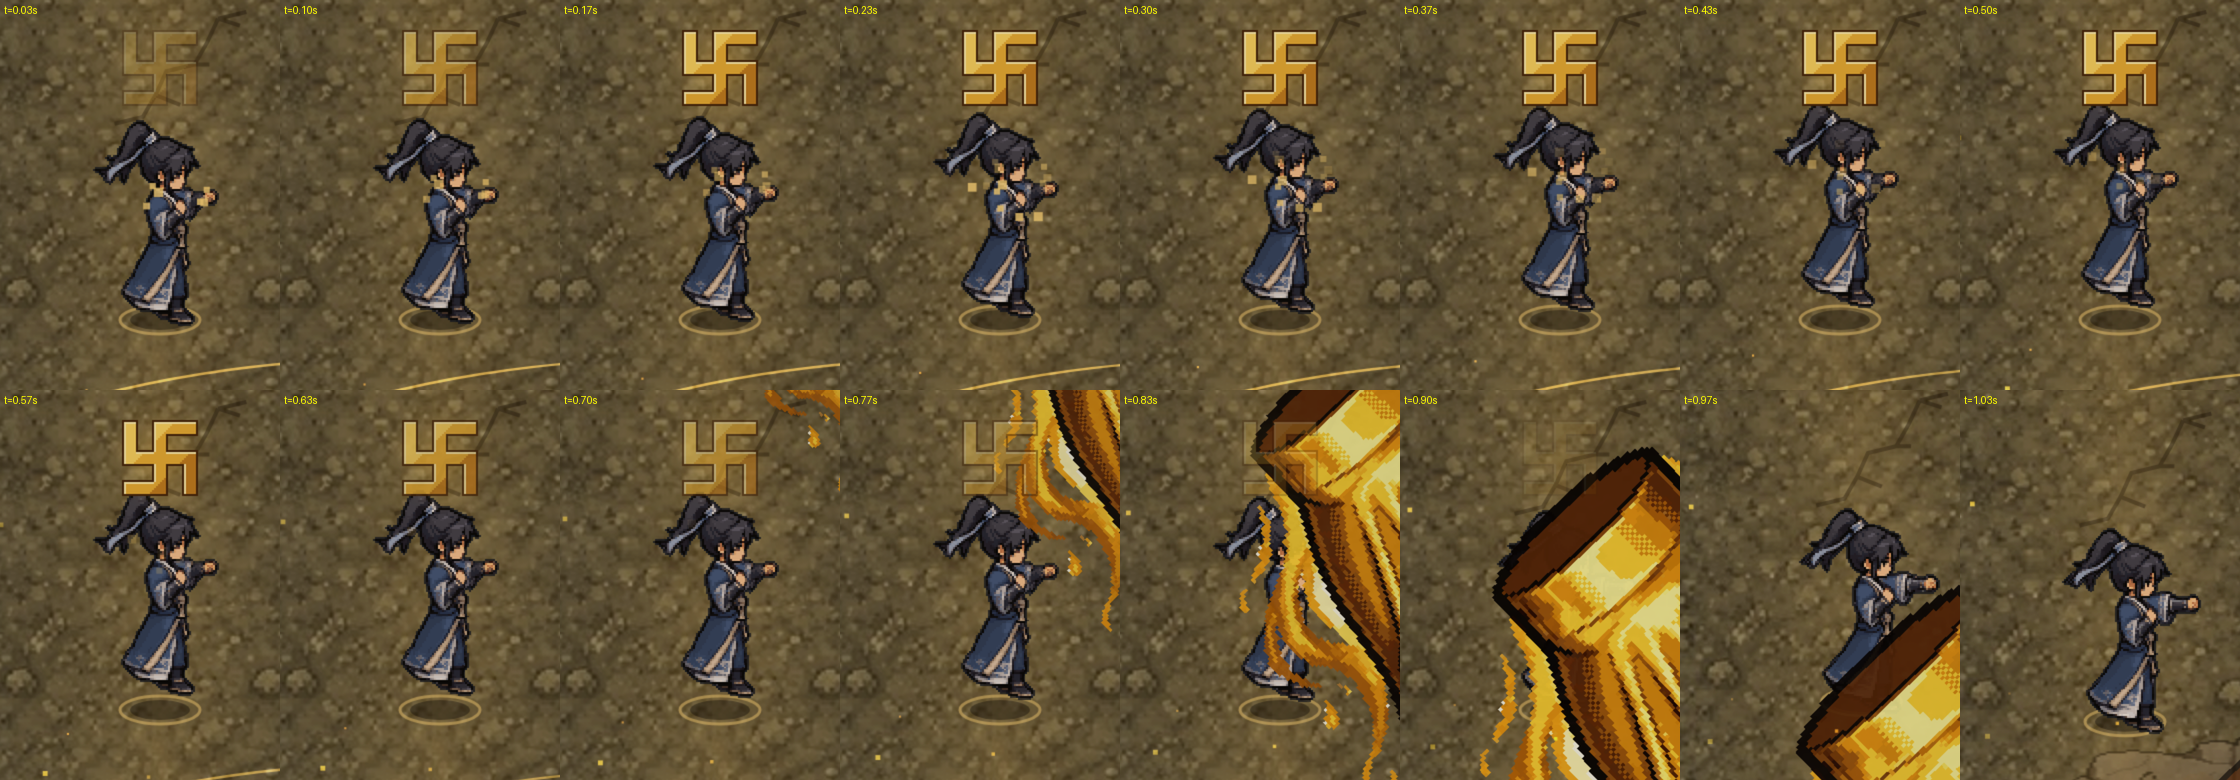
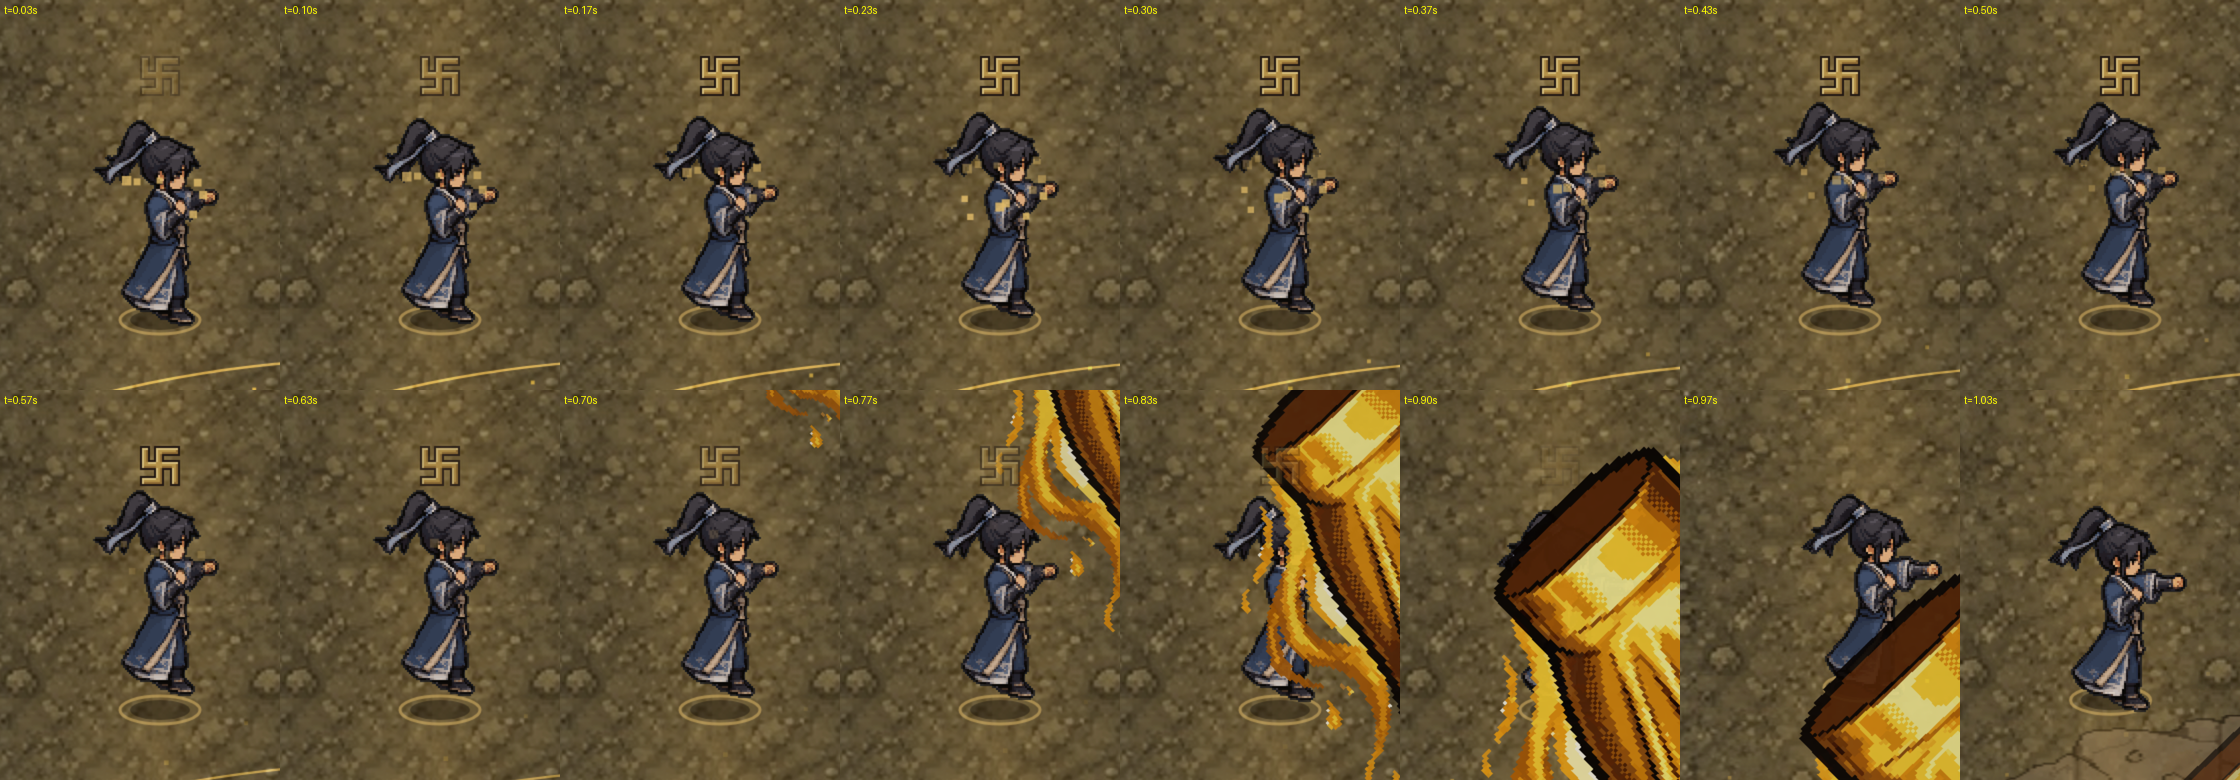
Quyền X: chữ VẠN nhỏ, nét mảnh, đồng bộ phong cách game
Claude-Session: https://claude.ai/code/session_01QQj46rsF4z2ee4KuP8oJja

diff --git a/game/index.html b/game/index.html
@@ -2352,7 +2352,7 @@ const WEAPONS={
    cast(tg,l){const dmg=this.power*lv(l)*pw(),dur=3+0.5*(l-1);notice('Thiên Cương Liên Hoàn');P.inv=Math.max(P.inv,0.4);sfx('rulai_fall',0.45,0.1);let k=0;if(vok('qy_an'))fx({k:'img',n:'qy_an',x:P.x,y:P.y+6,s0:0.3,s1:0.62,sy:0.5,spin:2.4,T:dur+0.3,al:0.85,gr:1});
     for(let t=0.2;t<=dur;t+=0.2){const kk=k++;later(t,()=>{const e=nearest(P.x,P.y,300),a2=angTo(e||tg);P.avAnim=kk%2?'attack2':'attack';swing(a2,kk%2?-1:1);P.runSwing=true;if(Math.abs(Math.cos(a2))>0.15)P.facing=Math.cos(a2)>=0?1:-1;arc(P.x,P.y-8,a2,150*Ar(),1.7,dmg*0.3,H({kb:70,stop:0.02,nofx:1}),'#fff0e8',kk%2?-1:1);if(vok('qy_hit'))fx({k:'sp',s:'qy_hit',x:P.x+Math.cos(a2)*(48+rnd(-8,14)),y:P.y-30+Math.sin(a2)*24+rnd(-10,10),sc:(0.9+Math.random()*0.4)*1.45,T:0.2,al:0.95});if(kk%3===0){fx({k:'ring',x:P.x+Math.cos(a2)*50,y:P.y-10+Math.sin(a2)*50,r0:10,r1:60,c:'#ffd0c8',T:0.2});G.shake=Math.max(G.shake||0,3)}},'h')}
     /* 25/11 (chủ game: "thấy có vfx bàn tay"): đòn kết = CHƯỞNG ẤN cương khí khổng lồ (bàn tay Phật gói Wuxia nhuộm đỏ chu sa - trắng, `qy_palm`) ép xuống chỗ đông quái nhất; sát thương 2,4 lần một cú đấm, đẩy lùi, choáng 0,6 s */
-    later(dur+0.25,()=>{const c=densest(P.x,P.y,340)||{x:P.x+Math.cos(angTo(tg))*180,y:P.y+Math.sin(angTo(tg))*180};const a3=Math.atan2(c.y-P.y,c.x-P.x);P.avAnim='attack';swing(a3,1);P.av=P.avTotal=1.45;P.runSwing=false;P._xp={t0:G.t};if(Math.abs(Math.cos(a3))>0.15)P.facing=Math.cos(a3)>=0?1:-1;sfx('rulai_fall',0.6,0.1);/* 25/11 (chủ game): thay vòng vàng bằng chữ VẠN (卍) hiện trên đầu lúc giơ tay, sau đó đập tay thì Như Lai Thần Chưởng hiện */if(vok('van_vang'))fx({k:'img',n:'van_vang',x:P.x,y:P.y-126,s0:0.5,s1:0.5,sy:1,T:0.95,al:1});for(const d of[0,0.22])later(d,()=>{for(let i=0;i<6;i++)part(P.x+rnd(-26,26),P.y-60+rnd(-10,10),rnd(-10,10),rnd(-70,-30),rnd(0.35,0.6),rnd(3,5),'rgba(255,214,120,.9)',0)},'h');
+    later(dur+0.25,()=>{const c=densest(P.x,P.y,340)||{x:P.x+Math.cos(angTo(tg))*180,y:P.y+Math.sin(angTo(tg))*180};const a3=Math.atan2(c.y-P.y,c.x-P.x);P.avAnim='attack';swing(a3,1);P.av=P.avTotal=1.45;P.runSwing=false;P._xp={t0:G.t};if(Math.abs(Math.cos(a3))>0.15)P.facing=Math.cos(a3)>=0?1:-1;sfx('rulai_fall',0.6,0.1);/* 25/11 (chủ game): thay vòng vàng bằng chữ VẠN (卍) hiện trên đầu lúc giơ tay, sau đó đập tay thì Như Lai Thần Chưởng hiện */if(vok('van_vang'))fx({k:'img',n:'van_vang',x:P.x,y:P.y-122,s0:1,s1:1,sy:1,T:0.95,al:1});for(const d of[0,0.22])later(d,()=>{for(let i=0;i<6;i++)part(P.x+rnd(-26,26),P.y-60+rnd(-10,10),rnd(-10,10),rnd(-70,-30),rnd(0.35,0.6),rnd(3,5),'rgba(255,214,120,.9)',0)},'h');
      /* 25/11 (chủ game: chưởng ấn từ trên trời rót xuống, rồi bàn tay lún sâu dưới đất): zone qypalm = bàn tay đỏ từ từ hạ 1,1 s (to dần, bóng và vòng báo trên đất), ép xuống, lún sâu bị mặt đất cắt, hố nứt + vết nứt đỏ lan ra */
      addZone({kind:'qypalm',T:1.9,src:'h',x:c.x,y:c.y,rot:a3});
      later(0.95,()=>{sfx('rulai_impact',0.85,0.1);if(G.decals.length<40)G.decals.push({img:'rulai_crater',x:c.x,y:c.y-5,w:422,h:236,t:0,T:2.9,pop:1});burst(c.x,c.y-6,'#d8c8a0',30);circ(c.x,c.y,200*Ar(),dmg*2.4,H({kb:300,stun:0.6,stop:0.05}),null);fx({k:'ring',x:c.x,y:c.y+14,r0:20,r1:200,c:'#ffc84a',T:0.45});fx({k:'ring',x:c.x,y:c.y+14,r0:10,r1:150,c:'#ab7d4f',T:0.5});G.shake=Math.max(G.shake||0,14)},'h')},'h')}}

diff --git a/cong_cu/claude/van_assets.py b/cong_cu/claude/van_assets.py
@@ -1,25 +1,26 @@
-"""Chữ VẠN (卍) vàng cho Quyền X: lưới 48 px phóng NEAREST x2 (khối 2x2), viền nâu sẫm, thân vàng có sáng trên-trái, quầng sáng mờ nền. Ra game/assets/vfx/van_vang.png (128x128)."""
-from PIL import Image,ImageFilter,ImageChops
+"""Chữ VẠN (卍) cho Quyền X, theo phong cách game: pixel 1 px thật (không phóng), nét mảnh 3 px, viền tối mảnh 1 px, màu vàng dịu, tô bóng ít (1 mép sáng, 1 mép tối), quầng rất nhạt. Ra game/assets/vfx/van_vang.png (32x32, vẽ tỉ lệ 1)."""
+from PIL import Image,ImageFilter
 import numpy as np,os
-G=48;m=np.zeros((G,G),bool)
+G=24;m=np.zeros((G,G),bool)
 def R(x0,y0,x1,y1):m[y0:y1,x0:x1]=True
-R(21,6,27,42);R(6,21,42,27);R(21,6,42,12);R(36,21,42,42);R(6,36,27,42);R(6,6,12,27)
-mask=Image.fromarray((m*255).astype('uint8'))
-dil=mask.filter(ImageFilter.MaxFilter(3))
-out=Image.new('RGBA',(G,G),(0,0,0,0));px=out.load();mk=np.array(mask)>0;dk=np.array(dil)>0
-for y in range(G):
-    for x in range(G):
-        if dk[y,x] and not mk[y,x]:px[x,y]=(70,38,10,255)
+R(10,3,13,21);R(3,10,21,13);R(10,3,21,6);R(18,10,21,21);R(3,18,13,21);R(3,3,6,13)
+S=32;o=(S-G)//2
+mk=np.zeros((S,S),bool);mk[o:o+G,o:o+G]=m
+dil=np.array(Image.fromarray((mk*255).astype('uint8')).filter(ImageFilter.MaxFilter(3)))>0
+img=Image.new('RGBA',(S,S),(0,0,0,0));px=img.load()
+# quầng rất nhạt
+halo=np.array(Image.fromarray((mk*255).astype('uint8')).filter(ImageFilter.GaussianBlur(3)),float)/255
+for y in range(S):
+    for x in range(S):
+        a=int(min(1,halo[y,x]*1.6)*46)
+        if a>2:px[x,y]=(232,196,110,a)
+for y in range(S):
+    for x in range(S):
+        if dil[y,x] and not mk[y,x]:px[x,y]=(34,26,22,255)           # viền đen mảnh
         elif mk[y,x]:
-            t=(x+y)/(2*G);edge=(not mk[y-1,x] or not mk[y,x-1]) if x>0 and y>0 else True
-            if edge:c=(255,238,170)
-            elif t<0.38:c=(255,214,96)
-            elif t<0.62:c=(236,176,52)
-            else:c=(196,126,30)
+            up=not mk[y-1,x];lf=not mk[y,x-1];dn=not mk[y+1,x];rt=not mk[y,x+1]
+            if up or lf:c=(238,214,142)
+            elif dn or rt:c=(158,120,58)
+            else:c=(206,168,84)
             px[x,y]=c+(255,)
-big=out.resize((G*2,G*2),Image.NEAREST)
-S=128;can=Image.new('RGBA',(S,S),(0,0,0,0))
-glow=Image.new('RGBA',(S,S),(0,0,0,0));ga=np.zeros((S,S),'float32');ys,xs=np.mgrid[0:S,0:S];d=np.hypot(xs-S/2,ys-S/2)
-ga=np.clip(1-d/(S*0.5),0,1)**2*110;glow=Image.fromarray(np.dstack([np.full((S,S),255),np.full((S,S),200),np.full((S,S),80),ga]).astype('uint8'),'RGBA')
-can.alpha_composite(glow);can.alpha_composite(big,((S-G*2)//2,(S-G*2)//2))
-os.makedirs('game/assets/vfx',exist_ok=True);can.save('game/assets/vfx/van_vang.png',optimize=True);print(can.size)
+os.makedirs('game/assets/vfx',exist_ok=True);img.save('game/assets/vfx/van_vang.png',optimize=True);print(img.size)

diff --git a/CLAUDE.md b/CLAUDE.md
@@ -646,4 +646,4 @@ Quyết định (chủ game không chọn riêng nên lấy đề xuất): hình
 
 - (25/11) **Quyền X: động tác giơ tay rồi bổ xuống, KHÔNG PixelLab (chủ game chọn sau khi 2 bản khung xương thất bại, tốn 12 lượt, còn ~1.420):** PixelLab không vẽ được cánh tay giơ thẳng lên trời ở góc nhìn nghiêng chibi (tay bị đầu che hoặc nhòe; kết quả ở `nguon/pixellab/quyen/x/v1_*`, `v2_*`, script `cong_cu/claude/skel_qy_x.py`). Cách làm trong game: `P._xp={t0}` đặt trong cast của `y6` lúc chưởng ấn bắt đầu; `heroFrame` trả khung A số 1 (thế thủ ngả ra sau) và `drawHeroFrame` cộng `P._xLift` (tịnh tiến, không méo khung): nhón lên 10 px trong 0,5 s, giữ, hụt xuống +3 lúc 0,95 s (bàn tay Như Lai chạm đất), đấm khung A 2–4 rồi thu (tổng 1,45 s). Thêm 2 vòng vàng co lại trên đầu và tia lửa bay lên lúc dồn lực. Ảnh `nguon/tham_chieu/quyen_X_dong_tac_nhon_nguoi.png`. Nếu chủ game có khung giơ tay thật (ChatGPT) thì thay bằng khung đó.
 
-- (25/11) **Quyền X: chữ VẠN (卍) thay vòng vàng trên đầu (chủ game):** lúc giơ tay (dồn lực) chữ VẠN vàng hiện trên đầu (`van_vang.png` 128×128, lưới 48 px phóng ×2, viền nâu, thân vàng, quầng sáng; dựng bằng `cong_cu/claude/van_assets.py`, tự vẽ bằng code theo lệnh trực tiếp của chủ game), vẽ ×0,5 (mỗi pixel = 1 px màn hình), `fx img` T 0,95 s, mờ dần khi Như Lai Thần Chưởng rơi. Hai vòng vàng co lại đã bỏ, giữ tia lửa. Ảnh `nguon/tham_chieu/quyen_X_chu_van_{nam,nu}.png`. Khung giơ tay thật vẫn chờ ChatGPT (`nguon/master_amgioi/PROMPT_CHATGPT_QUYEN_X.md`).
+- (25/11) **Quyền X: chữ VẠN (卍) thay vòng vàng trên đầu (chủ game):** lúc giơ tay (dồn lực) chữ VẠN vàng hiện trên đầu (`van_vang.png` 32×32, vẽ tỉ lệ 1: lưới 24 px, nét 3 px, viền tối mảnh 1 px, vàng dịu, tô bóng ít, quầng rất nhạt, theo phong cách game sau khi chủ game chê bản to; dựng bằng `cong_cu/claude/van_assets.py`, tự vẽ bằng code theo lệnh trực tiếp của chủ game), `fx img` T 0,95 s, mờ dần khi Như Lai Thần Chưởng rơi. Hai vòng vàng co lại đã bỏ, giữ tia lửa. Ảnh `nguon/tham_chieu/quyen_X_chu_van_{nam,nu}.png`. Khung giơ tay thật vẫn chờ ChatGPT (`nguon/master_amgioi/PROMPT_CHATGPT_QUYEN_X.md`).
